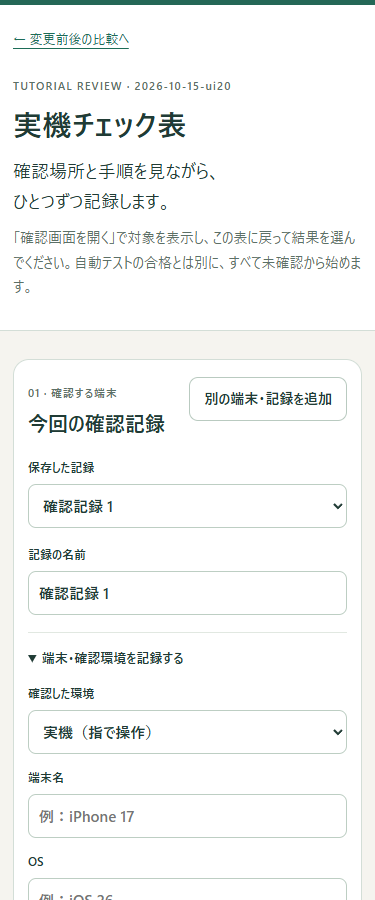
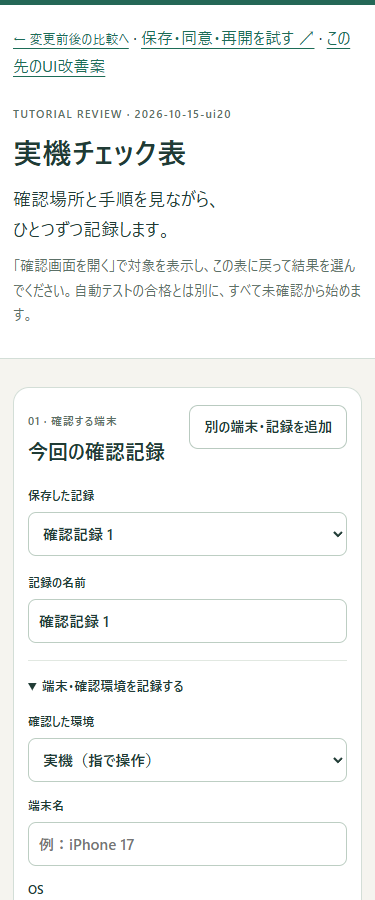
docs(pilot): 保存付き実機確認をチェック表から案内

diff --git a/pilot-anchor/reviews/2026-10-15-guided-release/device-checks-data.js b/pilot-anchor/reviews/2026-10-15-guided-release/device-checks-data.js
@@ -320,5 +320,43 @@ window.PILOT_DEVICE_CHECKS = (() => {
     else if (item.mode === 'synthetic') item.note += '\nこの項目の対象は通常の同意・保存・再開画面です。確認モードからその状態を直接開く入口はありません。下の検証記録は参考資料であり、確認画面へのボタンではありません。';
   }
 
+  // 表示専用goとは別に、通常の保存処理を実機で試す別originの入口。
+  // 既存IDを維持し、過去の実機記録をそのまま読み込めるようにする。
+  const labOrigin = 'https://drag-survey-device-lab.rubyball4.chatgpt.site/';
+  const lab = (label, key) => ref(label, labOrigin + '?case=' + key + '&run=' + key + '-check');
+  const labLinks = {
+    'prep-isolated-data': 'consent', 'consent-reading': 'consent',
+    'same-url-resume': 'resume', 'resume-snapshot': 'resume', 'visibility-and-lock': 'resume',
+    'local-storage': 'delivery', 'storage-quiz-motor': 'resume', 'storage-rating-pages': 'resume',
+    'storage-life-cycle': 'resume', 'storage-delivery-contract': 'delivery'
+  };
+  for (const item of items) if (labLinks[item.id]) {
+    item.note = item.note.replace('\nこの項目の対象は通常の同意・保存・再開画面です。確認モードからその状態を直接開く入口はありません。下の検証記録は参考資料であり、確認画面へのボタンではありません。', '');
+    item.links.unshift(lab('保存付きの実機確認を開く', labLinks[item.id]));
+    item.steps.unshift('「保存付きの実機確認を開く」で別ドメインの確認用メニューを開きます。そこにあるケース別の手順で操作し、結果をこの表に記録します。');
+    item.note += '\n保存付き実機確認は通常の保存・同意・再開を動かします。ただし旧版保存の互換性、記録の全フィールド、期限超過など、この項目に含まれる全条件を入口1つだけで検証できるわけではありません。端末内の模擬受領と実Driveへの送信も区別します。';
+  }
+  const labNote = '同じChatGPTアカウントで開く本人用サイトです。本番の保存領域・回収先を使いません。確認用メニューでそのケースだけ初期化できます。実機で実際に試すまで「未確認」のままにしてください。';
+  add('lab-consent-success', '同意・保存・再開の実機確認', '案内・入力・同意の通常操作', '確認用メニュー → 案内・入力・同意',
+    ['「同意を確認する」を開き、「成功する」で確認画面を開きます。', '最初の6画面で必要なチェックを付け、氏名「確認用」など架空の内容を入力します。', '同意本文を末尾まで読む前、チェック前に先へ進めるか試します。末尾まで読んでチェックし、同意します。', '別の実施では「名前を確認・修正する」と「参加をやめる」も試します。'],
+    ['同意前の進行制限、名前の修正、辞退が働く。', '模擬受領後に読速の確認へ進む。実データの送信は発生しない。'], [lab('同意を確認する','consent')], labNote, 'lab');
+  add('lab-consent-failure', '同意・保存・再開の実機確認', '同意の通信失敗・待機から再開する', '確認用メニュー → 案内・入力・同意 → 同意保存',
+    ['確認用のアプリの別タブを閉じ、メニューでこのケースだけ初期化します。「通信失敗を模擬する」を選んで開きます。', '架空の内容を入力し、本文末尾→チェック→同意と進めます。失敗時に実験へ進まないかを確認します。', 'そのページを閉じ、メニューから同じケースを開き直します。再開案内と保存状態を確認します。', 'メニューで「成功する」に変更して同じケースを開き直し、再送して先へ進みます。「応答待ちのままにする」でも同様に試します。'],
+    ['失敗・待機中に同意が受領済みとして扱われない。', '再開・再送してもセッションID・同意日時が変わらない。成功後にだけ進む。'], [lab('同意の失敗と再開を確認する','consent')], labNote + ' 固定URLは変更せず、模擬結果をメニューで変えます。', 'lab');
+  add('lab-tutorial-resume', '同意・保存・再開の実機確認', '説明・本人操作・復習を閉じて再開する', '確認用メニュー → チュートリアルの保存・再開',
+    ['「再開を確認する」で「成功する」を選び、確認画面を開きます。架空の入力内容の同意を実操作し、読速の確認3問を終えます。', 'チュートリアルの説明を数枚進めて閉じ、メニューから同じケースを開き直して続きから再開します。', '本人操作の成功前／成功後、復習の誤答後／正答後でも、閉じて同じURLから再開します。'],
+    ['保存された段階・正誤・選択が復元される。成功前の操作が勝手に成功扱いにならない。', '確定済み記録を重複追加しない。'], [lab('再開を確認する','resume')], labNote + ' 旧版保存との互換性は別の合成検証項目を参照してください。', 'lab');
+  add('lab-rating-resume', '同意・保存・再開の実機確認', '迷い・自信の選択を途中から再開する', '保存付きチュートリアル → 例題 → 回答の振り返り',
+    ['保存付きチュートリアルを進め、例題を1問回答します。', '迷いを1つ選んで「次へ」で自信へ進み、閉じて同じURLで再開します。', '「戻る」で迷いの選択を確認・変更し、自信も選んで確定します。もう一度閉じて再開します。'],
+    ['ページと選択が保たれ、戻る・変更・確定が操作できる。', '確定後の再開で、同じ回答や評定の確定が重複しない。'], [lab('保存付きの例題まで進める','resume')], labNote, 'lab');
+  add('lab-multi-tab', '同意・保存・再開の実機確認', '同じケースを2タブで同時に操作しない', '確認用メニューの「同じURLを別タブで開く」',
+    ['再開ケースのアプリを開いたまま、メニューの「同じURLを別タブで開く」を使います。', '2つ目のタブで「続きから再開」まで押し、操作・上書きができない案内を確かめます。', '元のタブを閉じ、同じURLを開き直して再開します。'],
+    ['2タブが同じ記録を同時に書き換えない。', '元タブを閉じた後には保存された続きから操作できる。'], [lab('別タブを確認する','resume')], labNote + ' Web Locksが使えないブラウザでは、その環境の結果として記録してください。', 'lab');
+  add('lab-delivery-retry', '同意・保存・再開の実機確認', '未送信を保持し、同じ内容で再送する', '確認用メニュー → 未送信・再送・完了',
+    ['「送信と再送を確認する」を開き、「通信失敗を模擬する」で確認画面を開きます。架空の完了回答が用意されます。', '未送信のまま閉じ、同じケースを開いて保持された状態を確認します。', 'メニューで「成功する」に変えて同じURLを開き、再送します。メニューの保存状態・詳細も確認します。', '完了後に閉じて同じURLを開き、受領控えと二重回答防止を確認します。'],
+    ['失敗中は確定済みの回答を保持する。再送しても内容とセッションが変わらない。', '模擬受領後は受領控えを表示し、同じ回答をやり直させない。'], [lab('送信と再送を確認する','delivery')], labNote + ' ここでの成功は実GAS・Driveへの送信成功ではありません。', 'lab');
+  add('lab-reset-scope', '同意・保存・再開の実機確認', '確認用データだけを初期化する', '確認用メニューの初期化ボタン',
+    ['同意ケースと再開ケースを別々に進めます。チェック表にもメモを記録しておきます。', 'アプリのタブを閉じ、同意ケースのメニューで「このケースの確認用データだけ初期化」を押します。', '同意ケースだけが最初へ戻り、再開ケースの保存と、このチェック表のメモが残るか確認します。'],
+    ['選んだ確認ケースだけが削除される。ほかのケースとチェック表の記録が残る。', '本番サイトとは別のドメインで動き、本番の回答を読み書きしない。'], [lab('確認用データの管理を開く','consent')], labNote + ' Safariのサイトデータ削除や、容量を埋める操作は不要です。', 'lab');
   return { schemaVersion: 1, targetVersion: '2026-10-15-ui20', items };
 })();

diff --git a/pilot-anchor/reviews/2026-10-15-guided-release/checklist.html b/pilot-anchor/reviews/2026-10-15-guided-release/checklist.html
@@ -1,6 +1,6 @@
 <!doctype html>
 <html lang="ja"><head><meta charset="utf-8"><meta name="viewport" content="width=device-width,initial-scale=1"><meta http-equiv="Content-Security-Policy" content="default-src 'self'; script-src 'self'; style-src 'self'; img-src 'self' data:; connect-src 'none'; object-src 'none'; base-uri 'none'; form-action 'none'"><title>実機チェック表 — チュートリアル刷新</title><link rel="stylesheet" href="checklist.css"></head>
-<body><header class="page-header"><div class="wrap"><a class="back-link" href="index.html">← 変更前後の比較へ</a><div class="eyebrow">TUTORIAL REVIEW · <span id="targetVersion"></span></div><h1>実機チェック表</h1><p class="lead">確認場所と手順を見ながら、<br class="mobile-break">ひとつずつ記録します。</p><p class="intro">「確認画面を開く」で対象を表示し、この表に戻って結果を選んでください。自動テストの合格とは別に、すべて未確認から始めます。</p></div></header>
+<body><header class="page-header"><div class="wrap"><a class="back-link" href="index.html">← 変更前後の比較へ</a> · <a href="https://drag-survey-device-lab.rubyball4.chatgpt.site/?case=consent&amp;run=consent-check">保存・同意・再開を試す ↗</a> · <a href="ux-next-proposals.html">この先のUI改善案</a><div class="eyebrow">TUTORIAL REVIEW · <span id="targetVersion"></span></div><h1>実機チェック表</h1><p class="lead">確認場所と手順を見ながら、<br class="mobile-break">ひとつずつ記録します。</p><p class="intro">「確認画面を開く」で対象を表示し、この表に戻って結果を選んでください。自動テストの合格とは別に、すべて未確認から始めます。</p></div></header>
 <main class="wrap">
 <section class="record-panel" aria-labelledby="recordHeading"><div class="section-heading"><div><span class="section-kicker">01 · 確認する端末</span><h2 id="recordHeading">今回の確認記録</h2></div><button id="newRecord" type="button" class="secondary">別の端末・記録を追加</button></div>
 <div class="record-top"><label>保存した記録<select id="recordSelect"></select></label><label>記録の名前<input id="recordTitle" maxlength="160" placeholder="例：iPhone 17 · Safariで確認"></label></div>
@@ -14,8 +14,8 @@
 </section>
 <section class="check-section" aria-labelledby="checksHeading"><div class="section-heading"><div><span class="section-kicker">02 · 確認を進める</span><h2 id="checksHeading">場所・操作・期待する結果</h2></div><span id="totalCount" class="muted"></span></div>
 <div class="progress-panel"><div class="progress-title"><strong id="progressText"></strong><span id="progressPercent"></span></div><progress id="checkProgress" max="1" value="0" aria-label="確認済みの割合"></progress><div class="status-summary" id="statusSummary" aria-label="状態で絞り込む"></div></div>
-<div class="filter-bar"><label class="search-label">キーワードで探す<input id="searchChecks" type="search" placeholder="例：3秒、次へ、振り返り"></label><label>確認するパート<select id="groupFilter"><option value="">すべてのパート</option></select></label><label>確認の方法<select id="modeFilter"><option value="">すべての方法</option><option value="preview">確認画面で試す</option><option value="synthetic">別の検証環境が必要</option><option value="reference">資料・設定を見る</option></select></label><label>状態<select id="statusFilter"><option value="">すべての状態</option><option value="pending">未確認</option><option value="passed">確認済み</option><option value="issue">要修正</option><option value="hold">保留</option></select></label><button id="clearFilters" type="button" class="text-button">絞り込みを解除</button></div>
-<div class="list-caption"><p id="visibleCount" role="status" aria-live="polite"></p><p>「確認画面」は保存・送信なし。保存や再開を確かめる項目は、別の検証環境が必要です。</p></div>
+<div class="filter-bar"><label class="search-label">キーワードで探す<input id="searchChecks" type="search" placeholder="例：3秒、次へ、振り返り"></label><label>確認するパート<select id="groupFilter"><option value="">すべてのパート</option></select></label><label>確認の方法<select id="modeFilter"><option value="">すべての方法</option><option value="preview">確認画面で試す</option><option value="lab">保存付き実機確認</option><option value="synthetic">追加の合成検証が必要</option><option value="reference">資料・設定を見る</option></select></label><label>状態<select id="statusFilter"><option value="">すべての状態</option><option value="pending">未確認</option><option value="passed">確認済み</option><option value="issue">要修正</option><option value="hold">保留</option></select></label><button id="clearFilters" type="button" class="text-button">絞り込みを解除</button></div>
+<div class="list-caption"><p id="visibleCount" role="status" aria-live="polite"></p><p>「確認画面」は表示専用。「保存付き実機確認」は別ドメインで保存・同意・再開を試せます。送信結果は端末内の模擬です。</p></div>
 <div id="checkList"></div><p id="emptyState" hidden>この条件に合う項目はありません。絞り込みを変更してください。</p>
 </section>
 <footer><p>確認状態とメモは、あなたがこの表で付けた記録です。PCで確認した結果を、実機Safariでの確認済みとは扱いません。対象のアプリが変わったら、別の記録で再確認してください。</p><div class="footer-links"><a href="index.html">変更前後を操作する</a><a href="publication.json">対象版の公開照合</a><a href="verification.json">自動テストの結果</a><a href="checklist.md">元の項目一覧</a></div></footer>

diff --git a/pilot-anchor/reviews/2026-10-15-guided-release/checklist.js b/pilot-anchor/reviews/2026-10-15-guided-release/checklist.js
@@ -3,7 +3,7 @@
   const data = window.PILOT_DEVICE_CHECKS;
   const TOOL = 'pilot-device-checklist', SCHEMA = 1;
   const STATUS = { pending: '未確認', passed: '確認済み', issue: '要修正', hold: '保留' };
-  const MODE = { preview: '確認画面で試す', synthetic: '別の検証環境が必要', reference: '資料・設定を見る' };
+  const MODE = { preview: '確認画面で試す', lab: '保存付き実機確認', synthetic: '追加の合成検証が必要', reference: '資料・設定を見る' };
   const ENV_FIELDS = { device: 'envDevice', os: 'envOs', browser: 'envBrowser', kind: 'envKind', date: 'envDate', notes: 'envNotes' };
   const $ = id => document.getElementById(id);
   if (!data || !Array.isArray(data.items) || !data.items.length) {
@@ -95,7 +95,8 @@
     heading.append(element('p', 'check-kicker', String(index + 1).padStart(2, '0') + ' · ' + item.group + ' · ' + MODE[item.mode]), element('h3', '', item.title));
     const badge = element('span', 'state-badge'); top.append(heading, badge); card.append(top);
     const place = element('div', 'check-place'); place.append(element('strong', '', '確認する場所'), element('p', '', Array.isArray(item.where) ? item.where.join(' → ') : item.where)); card.append(place);
-    if (item.mode === 'synthetic') card.append(element('p', 'method-note', '保存・再開などは、下の確認画面だけでは試せません。実参加者のデータを使わず、検証環境を準備して確認します。'));
+    if (item.mode === 'lab') card.append(element('p', 'method-note', '本番とは別ドメインの本人用サイトです。同じChatGPTアカウントでログインし、架空の内容で操作します。ブラウザ内保存は実際に行い、送信結果は端末内で模擬します。'));
+    if (item.mode === 'synthetic') card.append(element('p', 'method-note', '表示専用の確認画面だけでは、この項目全体を確認できません。「保存付きの実機確認」がある場合はそこで試せる範囲を確認し、旧版互換や記録の照合など残りは合成検証の結果と区別して記録します。'));
     const links = element('div', 'check-links');
     for (const link of item.links || []) { const href = safeLink(link); if (!href) continue; const a = element('a', '', link.label + ' ↗'); a.href = href; a.target = '_blank'; a.rel = 'noopener noreferrer'; links.append(a); }
     if (links.childElementCount) card.append(links);
